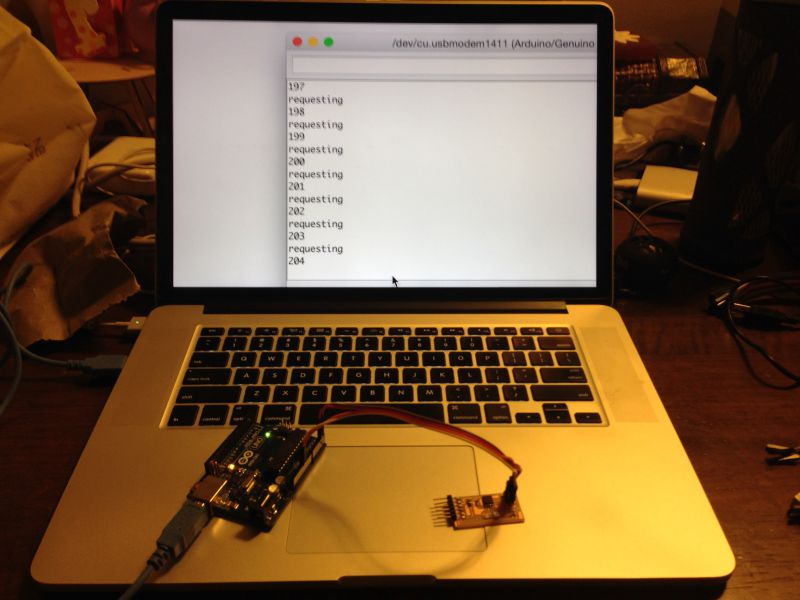
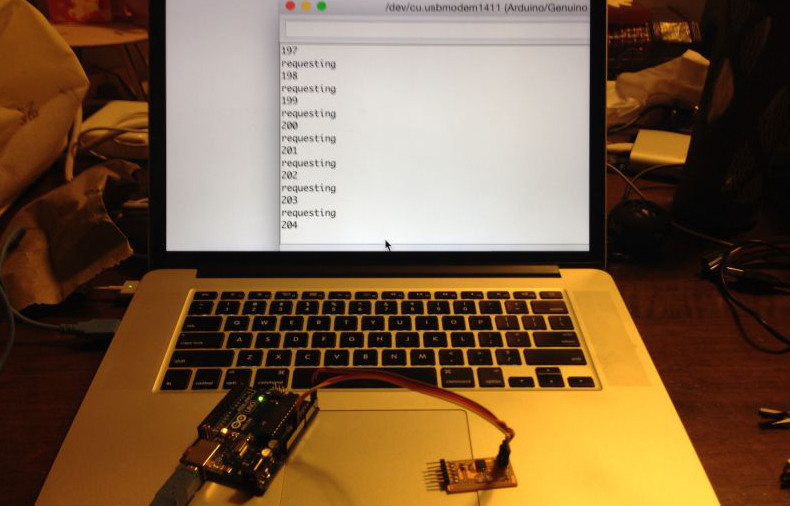
update index page

diff --git a/index.md b/index.md
@@ -252,11 +252,14 @@ layout: default
 <div class="row">
 	<div class="col-md-7">
 		<a href="w16-networking.html"><h1>Networking & Communications</h1></a>
+		<h2 class="text-muted">I<sup>2</sup>C Network</h2>
 		<p>
+		This week I created a I<sup>2</sup>C network connecting 2 microcontrollers - 1 master and 1 slave.   
 		</p>
 	</div>
 	<div class="col-md-5">
       <a href="w16-networking.html">
+        <img src="images/w16-i2c-slave-response.jpg" class="img-responsive" />
       </a>
 	</div>
 </div>
